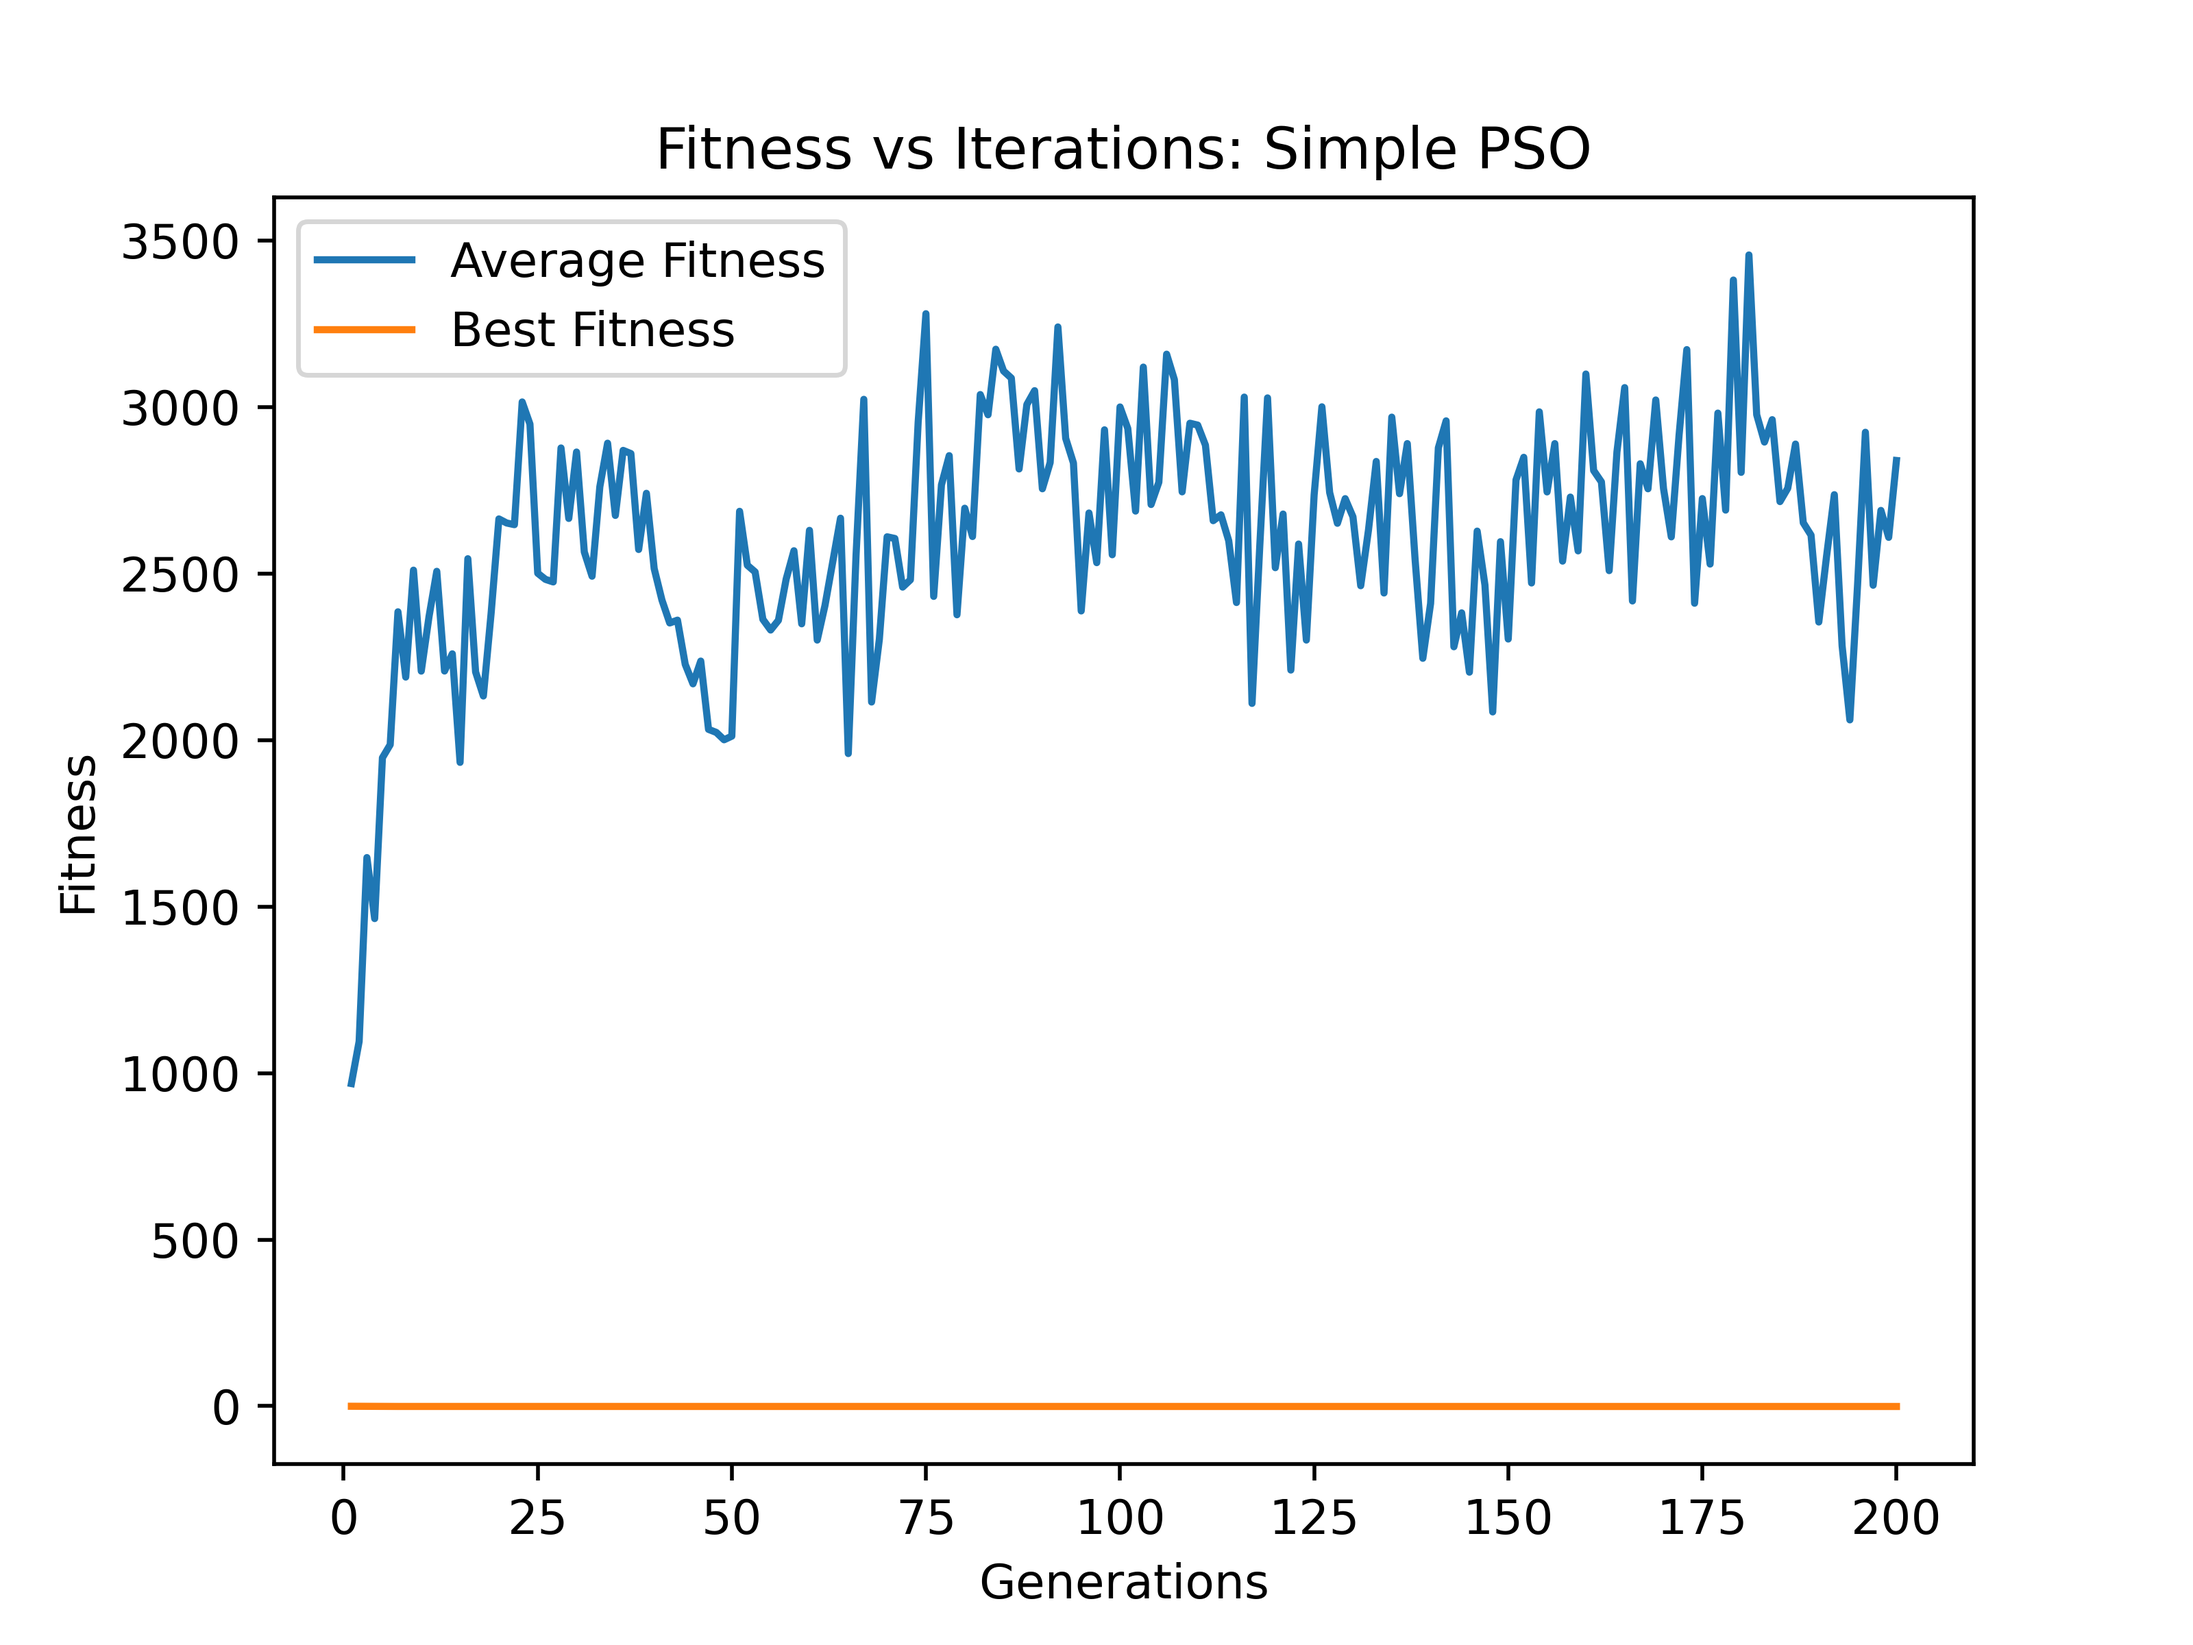
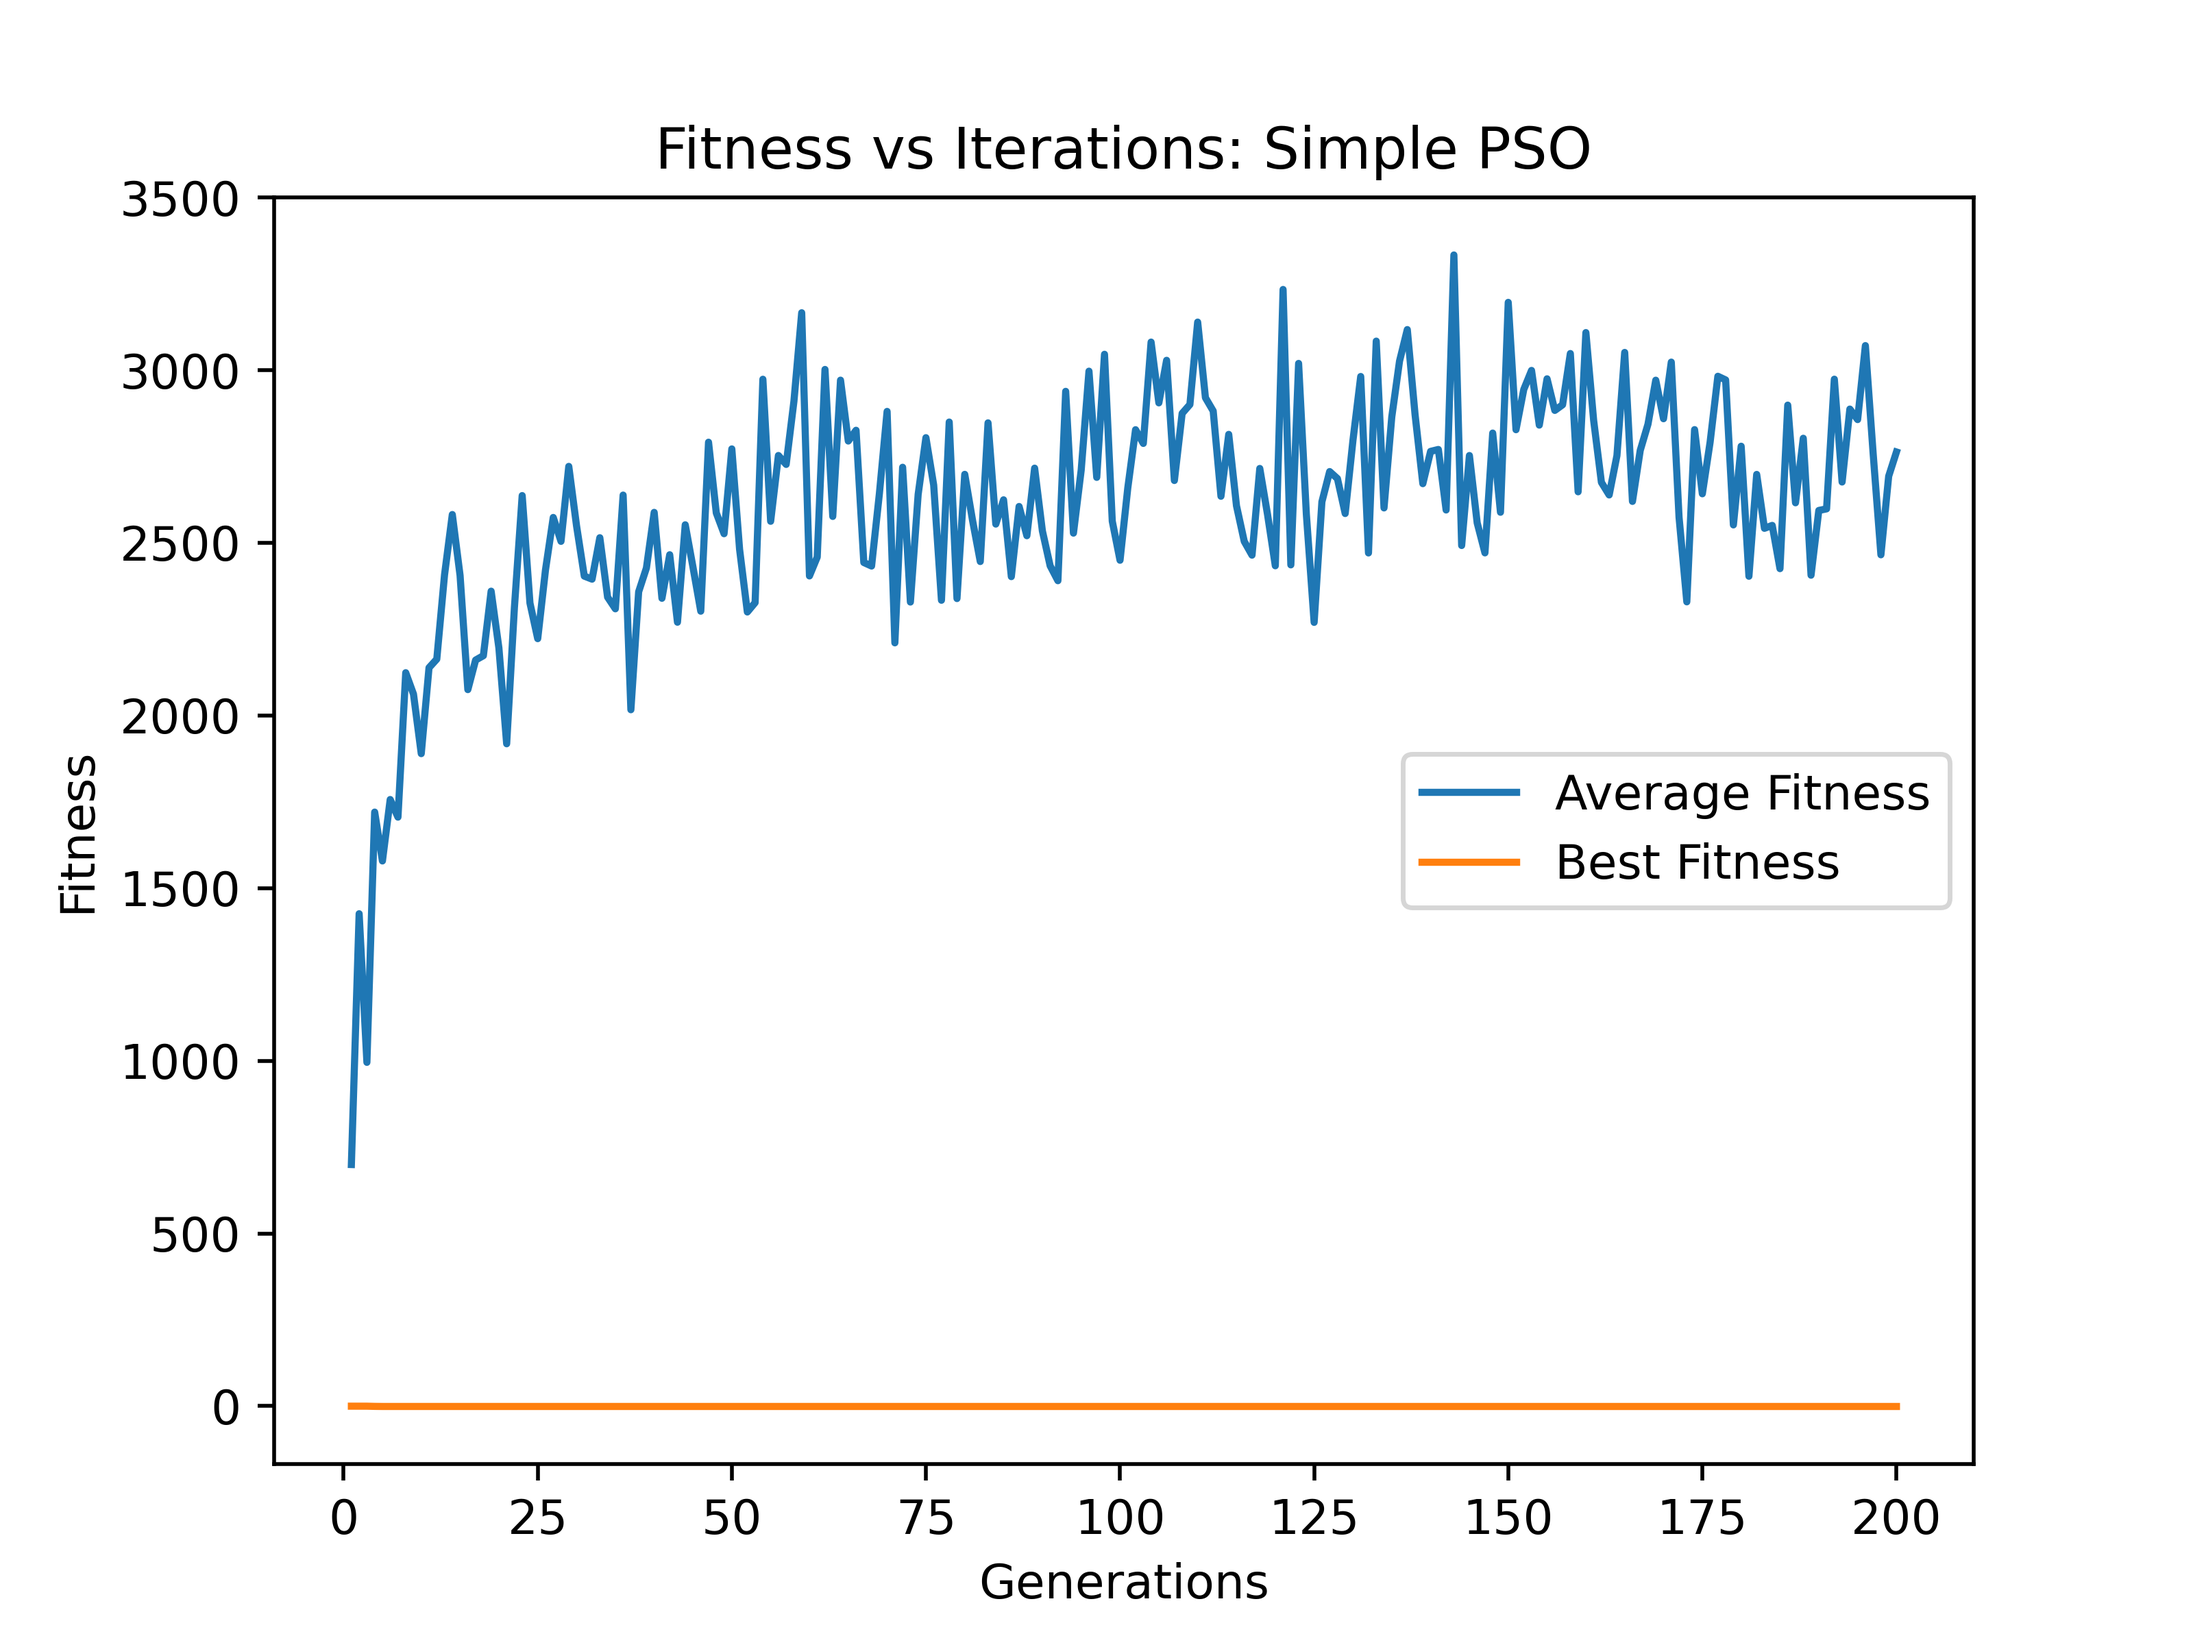
fix gcpso + plots

diff --git a/assignments/a4/q1/velocity_position_update.py b/assignments/a4/q1/velocity_position_update.py
@@ -12,18 +12,34 @@ import math
 # TODO: pass in range
 
 
-def bound(v, pos, min_r=[-5, -5], max_r=[5, 5]):
-    new_pos = np.clip(pos, min_r, max_r)
-    # return v, new_pos
-    if new_pos[0] != pos[0] or new_pos[1] != pos[1]:
-        return 0, new_pos
-    else:
-        return v, pos
+def bound(x_range, y_range, v, pos):
+    # Boundary Conditions: Absorbing
+    if pos[0] < x_range[0]:
+        pos[0] = x_range[0]
+        v[0] = 0
+    elif pos[0] > x_range[1]:
+        pos[0] = x_range[1]
+        v[0] = 0
+
+    if pos[1] < y_range[0]:
+        pos[1] = y_range[0]
+        v[1] = 0
+    elif pos[1] > y_range[1]:
+        pos[1] = y_range[1]
+        v[1] = 0
+
+    return v, pos
+    
+    # new_pos = np.clip(pos, min_r, max_r)
+    # # return v, new_pos
+    # if new_pos[0] != pos[0] or new_pos[1] != pos[1]:
+    #     return 0, new_pos
+    # else:
+    #     return v, pos
 
 
 def inertia_velocity(
-    w,
-    c1, c2,
+    x_range, y_range, w, c1, c2,
 ):
     def f1(num_failure, num_success, global_best):
         def f2(p_v, p_pos, p_best):
@@ -32,13 +48,13 @@ def inertia_velocity(
                 + c1*r1*(p_best - p_pos) \
                 + c2*r2*(global_best - p_pos)
             n_position = p_pos + n_velocity
-            return bound(n_velocity, n_position)
+            return bound(x_range, y_range, n_velocity, n_position)
         return f2
     return f1
 
 
 def constriction_velocity(
-    c1, c2,
+    x_range, y_range, c1, c2,
 ):
     assert c1 + c2 > 4.0, f"c1={c2} + c1={c1} < 4.0"
     k = 2 / (abs(2 - c1 - c2 - math.sqrt((c1+c2)**2 - 4*(c1+c2))))
@@ -50,13 +66,13 @@ def constriction_velocity(
                             + c1*r1*(p_best - p_pos)
                             + c2*r2*(global_best - p_pos))
             n_position = p_pos + n_velocity
-            return bound(n_velocity, n_position)
+            return bound(x_range, y_range, n_velocity, n_position)
         return f2
     return f1
 
 
 def simple_velocity(
-    c1, c2
+    x_range, y_range, c1, c2
 ):
     def f1(num_failure, num_success, global_best):
         def f2(p_v, p_pos, p_best):
@@ -65,14 +81,13 @@ def simple_velocity(
                 + c1*r1*(p_best - p_pos) \
                 + c2*r2*(global_best - p_pos)
             n_position = p_pos + n_velocity
-            return bound(n_velocity, n_position)
+            return bound(x_range, y_range, n_velocity, n_position)
         return f2
     return f1
 
 
 def guaranteed_convergence_velocity(
-    w,
-    c1, c2,
+    x_range, y_range, w, c1, c2,
 ):
     rhos = []
     e_s = 15
@@ -92,11 +107,10 @@ def guaranteed_convergence_velocity(
 
         def f2(p_v, p_pos, p_best):
             if tuple(p_pos) != tuple(global_best):
-                return simple_velocity(
-                    c1, c2)(None, None, global_best)(p_v, p_pos, p_best)
+                return inertia_velocity(x_range, y_range,w, c1, c2)(None, None, global_best)(p_v, p_pos, p_best)
             r2 = np.random.uniform()
             n_velocity = w*p_v + rho*(1-2*r2)
             n_position = global_best + w*p_v + rho*(1-2*r2)
-            return bound(n_velocity, n_position)
+            return bound(x_range, y_range, n_velocity, n_position)
         return f2
     return f1

diff --git a/assignments/a4/q1/run.py b/assignments/a4/q1/run.py
@@ -1,3 +1,7 @@
+import numpy as np
+np.random.seed(1)
+
+import sys
 from particle_swarm_optimization import simulation
 from fitness import six_hump_camelback
 from particle import Particle
@@ -28,14 +32,14 @@ def termination_condition(iteration_count: int):
 def q_one_one():
     c1 = c2 = 2.05
 
-    particles = [
+    swarm = [
         Particle(x_y_range, x_y_range) for i in range(100)
     ]
-    velocity_position_fn = simple_velocity(c1, c2)
+    velocity_position_fn = simple_velocity(x_y_range, x_y_range, c1, c2)
 
     avg_fit, best_fit, g_best = simulation(
         termination_condition=termination_condition(iterations),
-        particles=particles,
+        swarm=swarm,
         fitness_function=six_hump_camelback,
         velocity_position_update=velocity_position_fn
     )
@@ -65,14 +69,14 @@ def q_one_two():
     c1 = c2 = 2.05
     w = 0.5
 
-    particles = [
+    swarm = [
         Particle(x_y_range, x_y_range) for i in range(100)
     ]
-    velocity_position_fn = inertia_velocity(w, c1, c2)
+    velocity_position_fn = inertia_velocity(x_y_range, x_y_range, w, c1, c2)
 
     avg_fit, best_fit, g_best = simulation(
         termination_condition=termination_condition(iterations),
-        particles=particles,
+        swarm=swarm,
         fitness_function=six_hump_camelback,
         velocity_position_update=velocity_position_fn
     )
@@ -103,14 +107,14 @@ def q_one_three():
     c1 = c2 = 2.05
     w = 0.5
 
-    particles = [
+    swarm = [
         Particle(x_y_range, x_y_range) for i in range(100)
     ]
-    velocity_position_fn = constriction_velocity(c1, c2)
+    velocity_position_fn = constriction_velocity(x_y_range, x_y_range, c1, c2)
 
     avg_fit, best_fit, g_best = simulation(
         termination_condition=termination_condition(iterations),
-        particles=particles,
+        swarm=swarm,
         fitness_function=six_hump_camelback,
         velocity_position_update=velocity_position_fn
     )
@@ -140,14 +144,14 @@ def q_one_four():
     c1 = c2 = 2.05
     w = 0.5
 
-    particles = [
+    swarm = [
         Particle(x_y_range, x_y_range) for i in range(100)
     ]
-    velocity_position_fn = guaranteed_convergence_velocity(w, c1, c2)
+    velocity_position_fn = guaranteed_convergence_velocity(x_y_range, x_y_range, w, c1, c2)
 
     avg_fit, best_fit, g_best = simulation(
         termination_condition=termination_condition(iterations),
-        particles=particles,
+        swarm=swarm,
         fitness_function=six_hump_camelback,
         velocity_position_update=velocity_position_fn
     )
@@ -166,7 +170,12 @@ def q_one_four():
     print(f"\t best fitness: {six_hump_camelback(g_best[0],g_best[1])}")
     print(f"\t best x,y: {g_best[0]} {g_best[1]}")
 
+algos = [q_one_one, q_one_two, q_one_three, q_one_four]
+# for fn in [q_one_one, q_one_two, q_one_three, q_one_four]:
+#     fn()
 
-for fn in [q_one_one, q_one_two, q_one_three, q_one_four]:
-    fn()
-# q_one_four()
+if len(sys.argv) > 1:
+    algos[int(sys.argv[1])]()
+else:
+    for fn in algos:
+        fn()

diff --git a/assignments/a4/q1/particle_swarm_optimization.py b/assignments/a4/q1/particle_swarm_optimization.py
@@ -4,21 +4,21 @@ import numpy as np
 
 def simulation(
     termination_condition,
-    particles,
+    swarm,
     fitness_function,
     velocity_position_update,
 ):
     avg_fitness = []
     best_fitness = []
-    g_best = particles[0].position  # init
+    g_best = swarm[0].position  # init
 
     num_failures = 0
     num_success = 0
 
-    for i in termination_condition():
+    for _ in termination_condition():
         v_p_update = velocity_position_update(
             num_failures, num_success, g_best)
-        for particle in particles:
+        for particle in swarm:
             # update velocity, update position, update personal_best
             particle.fly(
                 velocity_position_update_fn=v_p_update,
@@ -38,7 +38,7 @@ def simulation(
         # Simulation data
         avg_fitness.append(np.average(
             np.array([fitness_function(p.position[0], p.position[1])
-                      for p in particles])
+                      for p in swarm])
         ))
 
         best_fitness.append(fitness_function(
